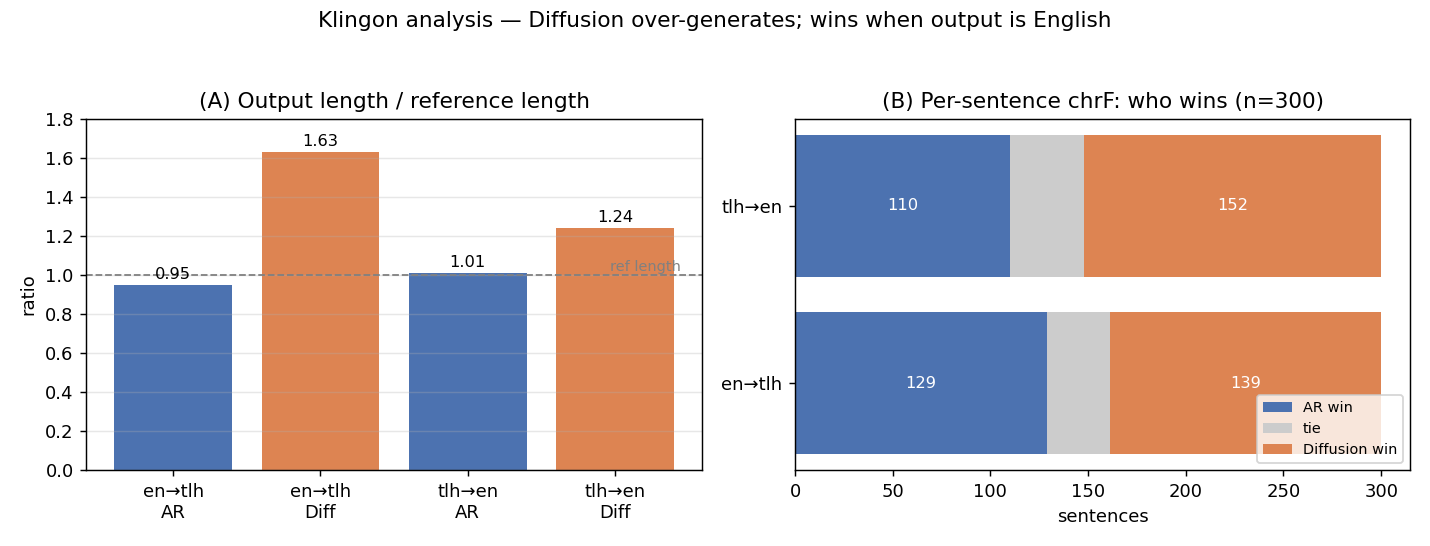
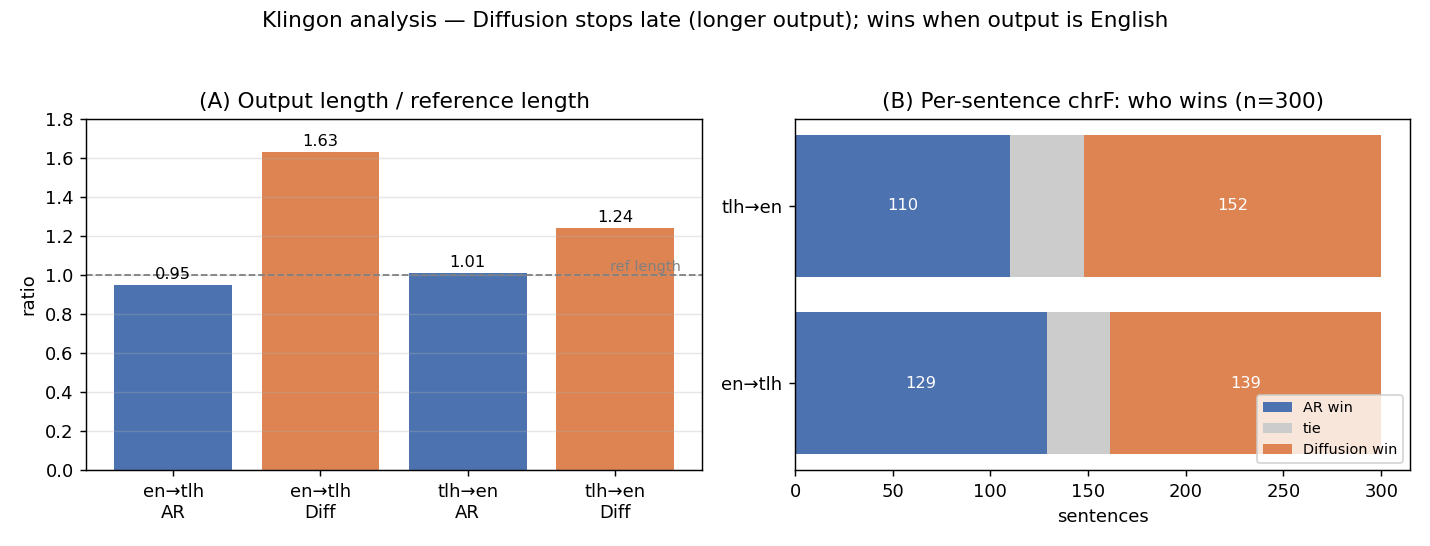
Report §4: fix framing — 'over-fills blanks' → 'stops late / longer output'
Both models stop at EOS; the real difference is WHERE. AR stops near reference
length (ratio ~1.0); Diffusion places EOS later → 1.63× longer (forward), and the
surplus tokens (often wrong/repetitive) crash BLEU. Reconcile §4(B) per-sentence
near-tie with §3.1 corpus AR-win: most sentences are even, but a few length
blow-ups drag the corpus score. Figure title updated to match.

Changed region(s): [[0.1846, 0.0, 0.8308, 0.0623]]

diff --git a/reports/figures/2026-05-29-analysis.py b/reports/figures/2026-05-29-analysis.py
@@ -33,7 +33,7 @@ for i, (a, t, f) in enumerate(zip(ar, tie, dff)):
     a2.text(a+t+f/2, i, str(f), va="center", ha="center", fontsize=9, color="white")
 a2.set_title("(B) Per-sentence chrF: who wins (n=300)"); a2.set_xlabel("sentences"); a2.legend(fontsize=8, loc="lower right")
 
-fig.suptitle("Klingon analysis — Diffusion over-generates; wins when output is English", fontsize=12)
+fig.suptitle("Klingon analysis — Diffusion stops late (longer output); wins when output is English", fontsize=12)
 fig.tight_layout(rect=[0, 0, 1, 0.95])
 fig.savefig("reports/figures/2026-05-29-analysis.png", dpi=130)
 print("saved reports/figures/2026-05-29-analysis.png")
